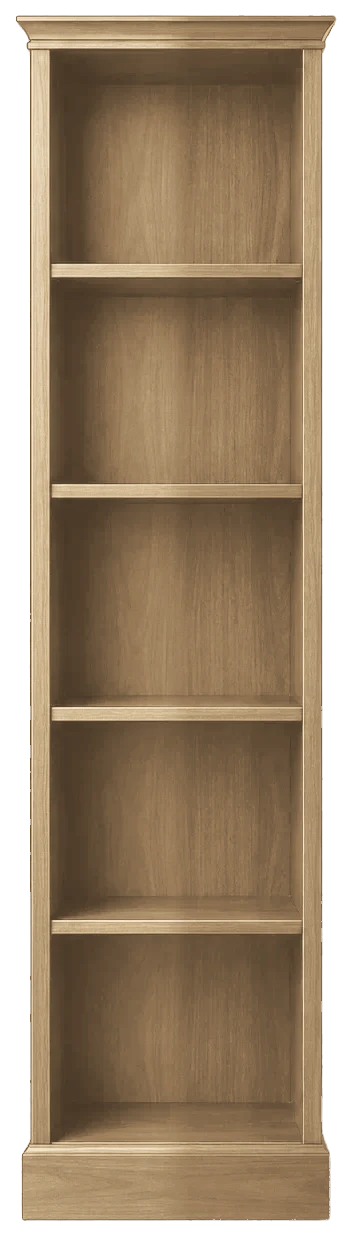
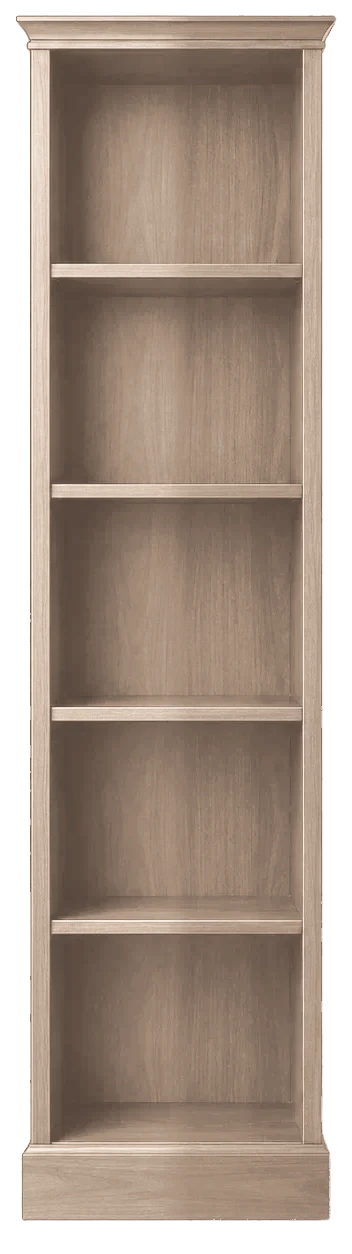
A Morning Retreat: Regal gekalkt wie das Tischchen, Orchidee auf Pflanzentisch links vor dem Regal ab Stufe 3 (1.84.2)

diff --git a/index.html b/index.html
@@ -1334,6 +1334,10 @@ html.theme-retreat :is(.mood-opt, .mood-cmp-one, .compare-text, .imp-hint, .grou
 html.theme-retreat .mood-opt:is(:hover, :active){ color:var(--rt-sage-d) !important; border-color:var(--rt-sage); }
 html.theme-retreat .breath-violet-btn{ color:#fbf8f1 !important; background:var(--rt-sage) !important; }
 html.theme-retreat .modal-backdrop.imp-backdrop{ background:rgba(239,230,216,0.86) !important; }
+/* the orchid on its plant stand (1.84.2): left of the shelf, a little in front; the row makes room for it */
+html.theme-retreat .lib-row.has-orchid{ --sw:min(calc((100cqw - 16px) / (1.44 + var(--nk, 0) - var(--nov, 0))), calc((100vh - var(--nav-h, 70px) - 190px) * 0.44), 520px); padding-left:calc(var(--sw) * 0.44); }
+html.theme-retreat .lib-row.has-orchid .shelf-unit{ scroll-margin-left:calc(var(--sw) * 0.44); } /* the snap must not hide the orchid */
+html.theme-retreat .shelf-orchid{ position:absolute; left:0; bottom:-7%; height:64%; transform:translateX(-82%); z-index:3; pointer-events:none; filter:drop-shadow(0 8px 10px rgba(90,80,60,0.3)); }
 </style>
 </head>
 <body data-theme="dark">
@@ -1773,7 +1777,7 @@ html.theme-retreat .modal-backdrop.imp-backdrop{ background:rgba(239,230,216,0.8
 
 <script>
 /* Bump on every published update, so it's visible at a glance whether the newest version is loaded. */
-const APP_VERSION = '1.84.1';
+const APP_VERSION = '1.84.2';
 /* Design (since 1.80.0, see the small script in <head>): in "Business" (BIZ) the gold paper icons are swapped for plain line
    icons (img/icons-rl/*.svg) wherever they appear – also in everything drawn later – so the rest of the code stays as it is. */
 // A Morning Retreat (1.84.0): light, sage and beige; until its own pictures come it uses those of A Gentleman's Study (with the
@@ -6161,9 +6165,12 @@ function tbRenderLibrary(){
   const narrowHtml = NAR ? `<div class="shelf-img shelf-narrow" style="background-image:url(img/${NS.img}.webp);aspect-ratio:${NS.aspect.toFixed(4)}">${SHELF_ROWS.map(([y0, y1], i)=>
       `<div class="shelf-comp shelf-comp-books" style="left:${NS.x[0]}%;width:${NS.x[1] - NS.x[0]}%;top:${y0}%;height:${y1 - y0}%">${(narrowRows[i] || []).map(bookHtml).join('')}</div>`).join('')}</div>` : '';
   setTimeout(()=>document.querySelectorAll('.lib-scroll').forEach(libScrollHint), 80);
+  // A Morning Retreat (1.84.2): from level 3 (where A Mystery World gets its ivy) a white orchid on a fine plant stand,
+  // to the left of the shelf (and of the narrow one), a little in front of it
+  const orchid = RETREAT && lv >= 3;
   // one row that scrolls sideways (1.81.0, both designs): the shelf (with the narrow one), then the cabinet and later more
-  return `<div class="lib-wrap"><div class="lib-scroll" onscroll="libScrollHint(this)"><div class="lib-row" style="--nk:${NAR ? NS.k : 0};--nov:${NAR ? NS.ov : 0}">
-      <div class="shelf-unit${NAR ? ' has-narrow' : ''}">${isChristmasTime() && decorOn() ? '<div class="shelf-snow" aria-hidden="true"></div>' : ''}${narrowHtml}${shelfHtml}</div>${vitHtml}</div></div></div>
+  return `<div class="lib-wrap"><div class="lib-scroll" onscroll="libScrollHint(this)"><div class="lib-row${orchid ? ' has-orchid' : ''}" style="--nk:${NAR ? NS.k : 0};--nov:${NAR ? NS.ov : 0}">
+      <div class="shelf-unit${NAR ? ' has-narrow' : ''}">${isChristmasTime() && decorOn() ? '<div class="shelf-snow" aria-hidden="true"></div>' : ''}${orchid ? '<img class="shelf-orchid" src="img/rt/orchid-stand.webp" alt="">' : ''}${narrowHtml}${shelfHtml}</div>${vitHtml}</div></div></div>
     <p class="shelf-hint">${keys.length ? d.shelfHint : ''}${next ? `<br>${d.trophyNextLabel} <strong>${escapeHtml(next.title)}</strong> (${next.have}/${next.need})` : ''}</p>
     <p class="shelf-hint shelf-level">${levelProgressText()}</p>
     ${tbCoverSettingsHtml()}`;

diff --git a/CLAUDE.md b/CLAUDE.md
@@ -125,7 +125,7 @@ Der Nutzer ist kein Entwickler. Erkläre Schritte einfach und auf Deutsch.
 - Veröffentlicht über **GitHub Pages** aus diesem Repository (Branch `main`, Ordner `/`):
   https://k9vk58y99f-max.github.io/k9vk58y99f-max.github.io-ewolfe-app-/
 - Ein Commit + Push auf `main` ist die Veröffentlichung; nach 1–2 Minuten ist es live.
-- Bei jeder Änderung `APP_VERSION` erhöhen (aktuell `1.84.0`) und `APP_BUILD` anpassen.
+- Bei jeder Änderung `APP_VERSION` erhöhen (aktuell `1.84.2`) und `APP_BUILD` anpassen.
   Die Version steht unten in der App.
 
 ## Neu seit 1.55.0 (iPad, Wischen, Tagebuch, Sticker, Impulskarten)
@@ -366,7 +366,10 @@ Vor jedem Push: Syntax prüfen und die betroffenen Abläufe testen. Daten des Nu
 - Design-Auswahl: drei Knöpfe untereinander (`DESIGNS`, `DESIGN_SUB`); Wechsel lädt neu, wenn sich `window.EW_DESIGN` ändert.
 - Seit 1.84.1: Regal, Anbau-Regal und Vitrine sind die Bilder von A Gentleman's Study, hell umgefärbt (Eiche, `img/rt/shelf`, `rt/shelf-narrow`,
   `rt/vitrine`; gleiche Maße und Fächer, `SHELVES.rl.img`/`NARROW.rl.img` wählen per `RETREAT`). Umfärben: Helligkeit je Pixel mit
-  Gamma 0,9 auf einen Eichen-Verlauf gelegt (Skript im Scratchpad `lighten.py`, Variante „eiche“).
+  Gamma 0,9 auf einen Holz-Verlauf gelegt (Skript im Scratchpad `lighten.py`; seit 1.84.2 Variante „gekalkt“, passend zum Tischchen).
+- Seit 1.84.2: ab Stufe 3 (wo A Mystery World den Efeu bekommt) steht links vor dem Regal ein Pflanzentisch mit weißer Orchidee
+  (`img/rt/orchid-stand.webp`, `.shelf-orchid` in `.shelf-unit`, `.lib-row.has-orchid` macht links Platz, `scroll-margin-left` damit
+  das Einrasten ihn nicht verdeckt).
 - Prompts und Entscheidungen: Sammelordner „3 Morning Retreat Style“.
 
 ## Sechster Bereich „Freude“ (seit 1.77.0)
